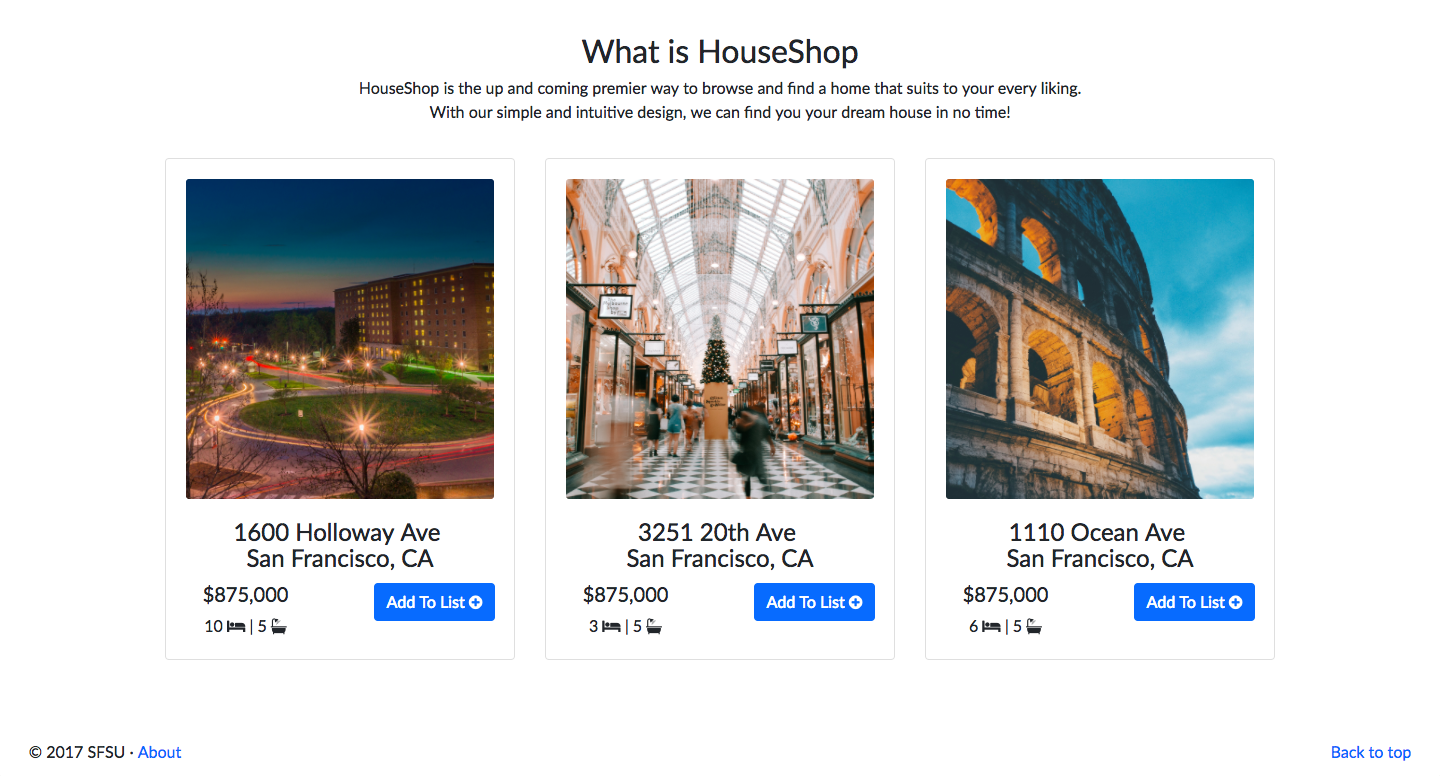
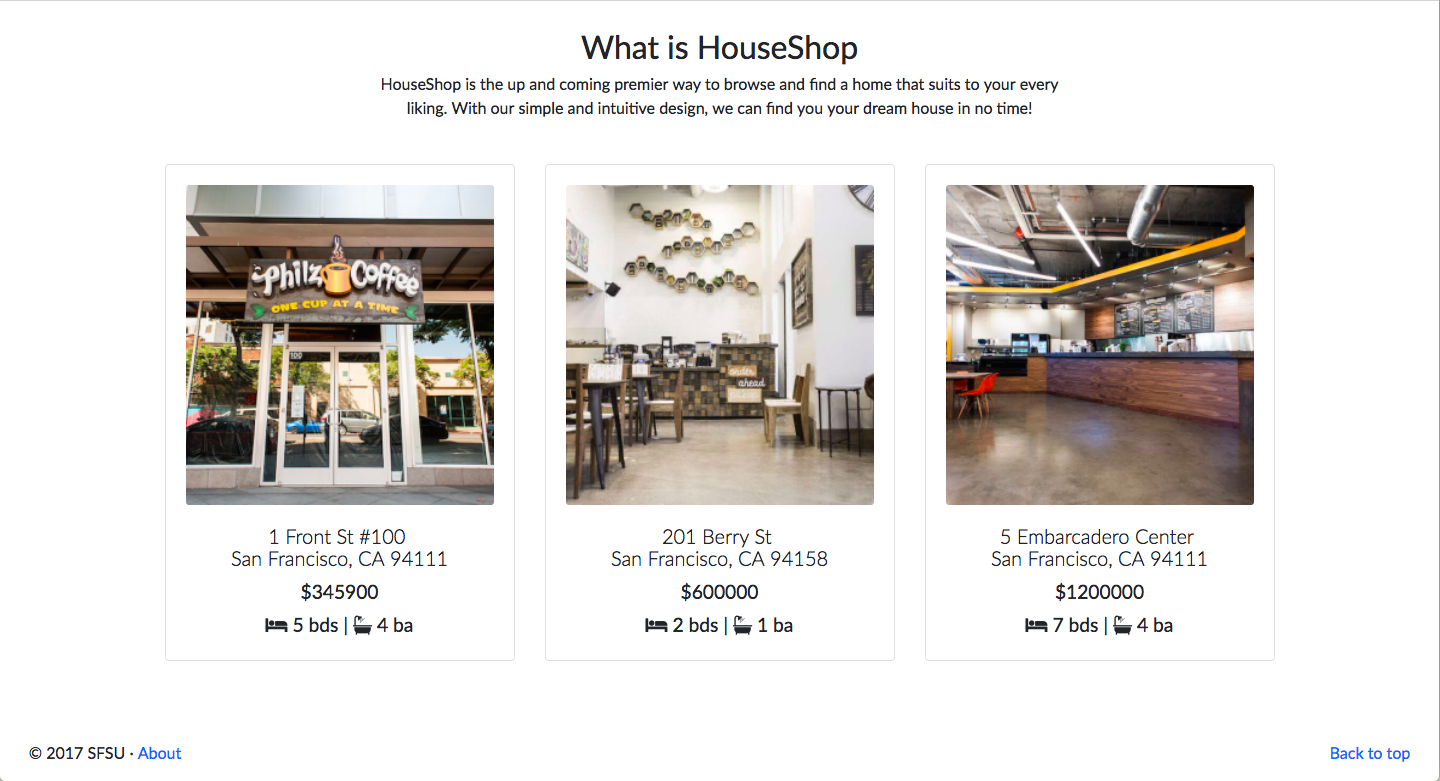
update real estate project

diff --git a/project-realestate.html b/project-realestate.html
@@ -26,10 +26,7 @@ layout: main
             <div class="col-lg-8 col-md-10 col-sm-12 col-xs-12 div-centered">
                 <h2>tl;dr</h2>
                 <p>
-                    Building real estate website which helps users easily browse, buy, or sell houses as well as listing agents to promote properties and provide consultant services. In a team of 6 students at <strong><i>SFSU</i></strong>, I am the <strong><i>front end lead</i></strong> and will be bringing my design perspective into the product as we make implementation decisions. The website is still in progress and will continue to develop throughout the upcoming months  
-                    <a href="https://sfsuse.com/fa17g09">
-                        <i class="fa fa-external-link" aria-hidden="true"></i>
-                    </a>.
+                    Building real estate website which helps users easily browse, buy, or sell houses as well as listing agents to promote properties and provide consultant services. In a team of 6 students at <strong><i>SFSU</i></strong>, I am the <strong><i>front end lead</i></strong> and will be bringing my design perspective into the product as we make implementation decisions. Check out the screenshots of the final website below!
                 </p>
             </div>
         </div>  
@@ -117,9 +114,9 @@ layout: main
     <div class="section-content-detail container">
         <div class="row">
             <div class="col-lg-8 col-md-10 col-sm-12 div-centered">
-                <h2>Progress Update</h2>
+                <h2>Final Product</h2>
                 <p>
-                    Given that we are in a very early stage of the project, we have set a very good direction as to how we want our website to present and what we can do to reach our goal. Please feel free to leave any comments and continue to look out for our final product  <i class="fa fa-rocket" aria-hidden="true"></i> !
+                    Check out the screenshots of the final product. Please feel free to leave any comments and continue to look out for my future projects  <i class="fa fa-rocket" aria-hidden="true"></i> !
                 </p>
             </div>
             <div class="col-lg-12 image-section">
@@ -135,21 +132,63 @@ layout: main
                 </figure> 
             </div>
             <div class="col-lg-12 image-section">
-                <h3>Sign Up Form</h3>  
+                <h3>Log In/Sign Up Form</h3>  
+                 <figure class="image-content image-bg" style="margin: 0">
+                    <img src="../img/project-realestate/login-signup.png" alt="Image description" />
+                </figure> 
+            </div>
+            <div class="col-lg-12 image-section">
+                <h3>User Signing Up</h3>  
                  <figure class="image-content image-bg" style="margin: 0">
                     <img src="../img/project-realestate/signup.png" alt="Image description" />
                 </figure> 
             </div>
             <div class="col-lg-12 image-section">
-                <h3>Log In Form</h3>  
+                <h3>User Signed Up</h3>  
                  <figure class="image-content image-bg" style="margin: 0">
-                    <img src="../img/project-realestate/login.png" alt="Image description" />
+                    <img src="../img/project-realestate/signup-1.png" alt="Image description" />
+                </figure> 
+            </div>
+            <div class="col-lg-12 image-section">
+                <h3>Home Page for Registered User</h3>  
+                 <figure class="image-content image-bg" style="margin: 0">
+                    <img src="../img/project-realestate/signup-2.png" alt="Image description" />
                 </figure> 
             </div>
             <div class="col-lg-12 image-section">
                 <h3>Listing Agent's Dashboard</h3>  
                  <figure class="image-content image-bg" style="margin: 0">
-                    <img src="../img/project-realestate/dashboard.png" alt="Image description" />
+                    <img src="../img/project-realestate/dashboard-listings.png" alt="Image description" />
+                </figure> 
+            </div>
+            <div class="col-lg-12 image-section">
+                <h3>Listing Agent's Dashboard</h3>  
+                 <figure class="image-content image-bg" style="margin: 0">
+                    <img src="../img/project-realestate/dashboard-contacts.png" alt="Image description" />
+                </figure> 
+            </div>
+            <div class="col-lg-12 image-section">
+                <h3>Inbox</h3>  
+                 <figure class="image-content image-bg" style="margin: 0">
+                    <img src="../img/project-realestate/inbox.png" alt="Image description" />
+                </figure> 
+            </div>
+            <div class="col-lg-12 image-section">
+                <h3>Create A Listing</h3>  
+                 <figure class="image-content image-bg" style="margin: 0">
+                    <img src="../img/project-realestate/create-1.png" alt="Image description" />
+                </figure> 
+            </div>
+            <div class="col-lg-12 image-section">
+                <h3>Create A Listing</h3>  
+                 <figure class="image-content image-bg" style="margin: 0">
+                    <img src="../img/project-realestate/create-2.png" alt="Image description" />
+                </figure> 
+            </div>
+            <div class="col-lg-12 image-section">
+                <h3>Create A Listing</h3>  
+                 <figure class="image-content image-bg" style="margin: 0">
+                    <img src="../img/project-realestate/create-3.png" alt="Image description" />
                 </figure> 
             </div>
             <div class="col-lg-12 image-section">
@@ -165,12 +204,30 @@ layout: main
                 </figure> 
             </div> 
             <div class="col-lg-12 image-section">
+                <h3>Search Page</h3>  
+                 <figure class="image-content image-bg" style="margin: 0">
+                    <img src="../img/project-realestate/search-3.png" alt="Image description" />
+                </figure> 
+            </div> 
+            <div class="col-lg-12 image-section">
                 <h3>Listing Page</h3>  
                  <figure class="image-content image-bg" style="margin: 0">
                     <img src="../img/project-realestate/listing.png" alt="Image description" />
                 </figure> 
             </div>
-        </div>  
+            <div class="col-lg-12 image-section">
+                <h3>Contact Listing Agent</h3>  
+                 <figure class="image-content image-bg" style="margin: 0">
+                    <img src="../img/project-realestate/contact-1.png" alt="Image description" />
+                </figure> 
+            </div>
+            <div class="col-lg-12 image-section">
+                <h3>Contact Listing Agent</h3>  
+                 <figure class="image-content image-bg" style="margin: 0">
+                    <img src="../img/project-realestate/contact-2.png" alt="Image description" />
+                </figure> 
+            </div>
+        </div>
     </div>
 </section>
 <!-- /conclusions -->

diff --git a/project-graphic.html b/project-graphic.html
@@ -28,11 +28,9 @@ layout: main
             </div>
         </div>  
     </div>
-    <a href="">
-        <figure class="image-content image-bg">
-            <img src="../img/project-graphic/design-banner.svg" alt="Image description" />
-        </figure>       
-    </a>
+    <figure class="image-content image-bg">
+        <img src="../img/project-graphic/design-banner.svg" alt="Image description" />
+    </figure>
 </section>
 <!-- /intro -->
 
@@ -42,7 +40,7 @@ layout: main
             <div class="col-lg-8 col-md-10 col-sm-12 div-centered">
                 <h2>Pandora UI Redesign</h2>
                 <p>
-                    I really like the idea of having a music streaming service that is more like a radio station - let them pick the music for you (based on your preferences so far). 
+                    I really like the idea of having a music streaming service that is more like a radio station - let them pick the music for you (based on your preferences so far).
                 </p>
             </div>
         </div>
@@ -51,10 +49,10 @@ layout: main
         </figure> 
         <figure class="image-content image-bg">
             <img src="img/project-graphic/pandora-3.png" id="img-group">
-        </figure>         
+        </figure>
     </div>
 </section>
-<!-- Pandora UI Redesign -->
+<!-- / Pandora UI Redesign -->
 
 <section class="section section-project">
     <div class="section-content-detail container">
@@ -66,46 +64,36 @@ layout: main
                 </p>
             </div>
             <div class="col-lg-6">
-                <a href="">
-                    <figure class="image-content image-bg">
-                        <img src="../img/project-graphic/vocab-notif-1.png" alt="Image description" />
-                    </figure>         
-                </a>    
-            </div>                
-            <div class="col-lg-6">
-                <a href="">
-                    <figure class="image-content image-bg">
-                        <img src="../img/project-graphic/vocab-notif-3.png" alt="Image description" />
-                    </figure>         
-                </a>    
+                <figure class="image-content image-bg">
+                    <img src="../img/project-graphic/vocab-notif-1.png" alt="Image description" />
+                </figure>
             </div>
             <div class="col-lg-6">
-                <a href="">
-                    <figure class="image-content image-bg">
-                        <img src="../img/project-graphic/vocab-notif-2.png" alt="Image description" />
-                    </figure>         
-                </a>    
-            </div>                
+                <figure class="image-content image-bg">
+                    <img src="../img/project-graphic/vocab-notif-3.png" alt="Image description" />
+                </figure>
+            </div>
             <div class="col-lg-6">
-                <a href="">
-                    <figure class="image-content image-bg">
-                        <img src="../img/project-graphic/vocab-notif-4.png" alt="Image description" />
-                    </figure>         
-                </a>    
-            </div>        
-            <div class="col-lg-3"></div>    
+                <figure class="image-content image-bg">
+                    <img src="../img/project-graphic/vocab-notif-2.png" alt="Image description" />
+                </figure>
+            </div>
             <div class="col-lg-6">
-                <a href="">
-                    <figure class="image-content image-bg">
-                        <img src="../img/project-graphic/vocab-notif-5.png" alt="Image description" />
-                    </figure>         
-                </a>    
+                <figure class="image-content image-bg">
+                    <img src="../img/project-graphic/vocab-notif-4.png" alt="Image description" />
+                </figure>
+            </div>
+            <div class="col-lg-3"></div>
+            <div class="col-lg-6">
+                <figure class="image-content image-bg">
+                    <img src="../img/project-graphic/vocab-notif-5.png" alt="Image description" />
+                </figure>
             </div>
                 
-        </div>  
+        </div>
     </div>
 </section>
-<!-- Dictionary Notification -->
+<!-- / Dictionary Notification -->
 
 <section class="section section-project" id="projects">
     <div class="section-content-detail container">
@@ -119,25 +107,25 @@ layout: main
         </div>
         <figure class="image-content image-bg">
             <img src="img/project-graphic/thumbs-lines.svg" id="img-group">
-        </figure>         
+        </figure>
         <figure class="image-content image-bg">
             <img src="img/project-graphic/thumbs-transparent.svg" id="img-group">
-        </figure> 
+        </figure>
         <figure class="image-content image-bg">
             <img src="img/project-graphic/abstract-botta.png" id="img-group">
-        </figure> 
+        </figure>
         <figure class="image-content image-bg">
             <img src="img/project-graphic/abstract-cyan-red.png" id="img-group">
-        </figure>         
+        </figure>
         <figure class="image-content image-bg">
             <img src="img/project-graphic/abstract-letter.png" id="img-group">
         </figure>
         <figure class="image-content image-bg">
             <img src="img/project-graphic/cartoon-logo.png" id="img-group">
-        </figure>         
+        </figure>
         <figure class="image-content image-bg">
             <img src="img/project-graphic/cartoon-logo2.png" id="img-group">
-        </figure>                 
+        </figure>
     </div>
 </section>
 <!-- Pandora UI Redesign -->

diff --git a/project-menu.html b/project-menu.html
@@ -29,16 +29,14 @@ layout: main
                     I don't know what to order from the menu.
                 </blockquote>
                 <p>
-                    Restaurant menu is one of the first user-facing artifacts that we encounter as customers. There are inherently many common problems pertaining to how menus display the dishes that lead to questions that we sometimes don't want to bother and ask the waiter/waitress. In order to make this experience more pleasant and intuitive for customers, I identified such problems and redesigned the menu to reflect my findings.    
+                    Restaurant menu is one of the first user-facing artifacts that we encounter as customers. There are inherently many common problems pertaining to how menus display the dishes that lead to questions that we sometimes don't want to bother and ask the waiter/waitress. In order to make this experience more pleasant and intuitive for customers, I identified such problems and redesigned the menu to reflect my findings.
                 </p>
             </div>
         </div>  
     </div>
-    <a href="">
-        <figure class="image-content image-bg">
-            <img src="../img/project-menu/project-banner-restaurantmenu.svg" alt="Image description" />
-        </figure>       
-    </a>
+    <figure class="image-content image-bg">
+        <img src="../img/project-menu/project-banner-restaurantmenu.svg" alt="Image description" />
+    </figure>
 </section>
 <!-- /intro -->
 
@@ -89,11 +87,9 @@ layout: main
             </div>
         </div>  
     </div>
-    <a href="">
-        <figure class="image-content image-bg">
-            <img src="../img/project-menu/menu-sketch.jpeg" alt="Image description" />
-        </figure>         
-    </a>
+    <figure class="image-content image-bg">
+        <img src="../img/project-menu/menu-sketch.jpeg" alt="Image description" />
+    </figure>
 </section>
 <!-- /process-step -->
 
@@ -107,11 +103,9 @@ layout: main
                 </p>
             </div>
             <div class="col-lg-8">
-                <a href="project-menu.html">
-                    <figure class="image-content image-bg">
-                        <img src="../img/project-menu/Menu-page1-v1.png" alt="Image description" />
-                    </figure>  
-                </a>
+                <figure class="image-content image-bg">
+                    <img src="../img/project-menu/Menu-page1-v1.png" alt="Image description" />
+                </figure>
             </div>
         </div> 
     </div>
@@ -122,11 +116,9 @@ layout: main
     <div class="section-content-detail container">
         <div class="row">
             <div class="col-lg-8">
-                <a href="project-menu.html">
-                    <figure class="image-content image-bg">
-                        <img src="../img/project-menu/Menu-final.png" alt="Image description" />
-                    </figure>  
-                </a>
+                <figure class="image-content image-bg">
+                    <img src="../img/project-menu/Menu-final.png" alt="Image description" />
+                </figure>
             </div>
             <div class="col-lg-4 col-md-10 col-sm-12 div-centered">
                 <h2>Final Version</h2>

diff --git a/project-photography.html b/project-photography.html
@@ -12,7 +12,7 @@ layout: main
                     iPhone, Canon, Adobe  Lightroom, VSCOCAM
                 </h3>
             </div>
-        </div>  
+        </div>
     </div>
 </section>
 <!-- /hero -->
@@ -31,10 +31,5 @@ layout: main
             <div id="instafeed"></div>
         </div>  
     </div>
-    <a href="">
-        <figure class="image-content image-bg">
-            <!-- <img src="../img/photo-street.jpg" alt="Image description" /> -->
-        </figure>       
-    </a>
 </section>
 <!-- /intro -->

diff --git a/project-music.html b/project-music.html
@@ -33,10 +33,8 @@ layout: main
             </div>
         </div>  
     </div>
-    <a href="">
-        <figure class="image-content image-bg">
-            <img src="../img/project-music/valentino-funghi-146040.jpg" alt="Image description" />
-        </figure>       
-    </a>
+    <figure class="image-content image-bg">
+        <img src="../img/project-music/valentino-funghi-146040.jpg" alt="Image description" />
+    </figure>
 </section>
 <!-- /intro -->
